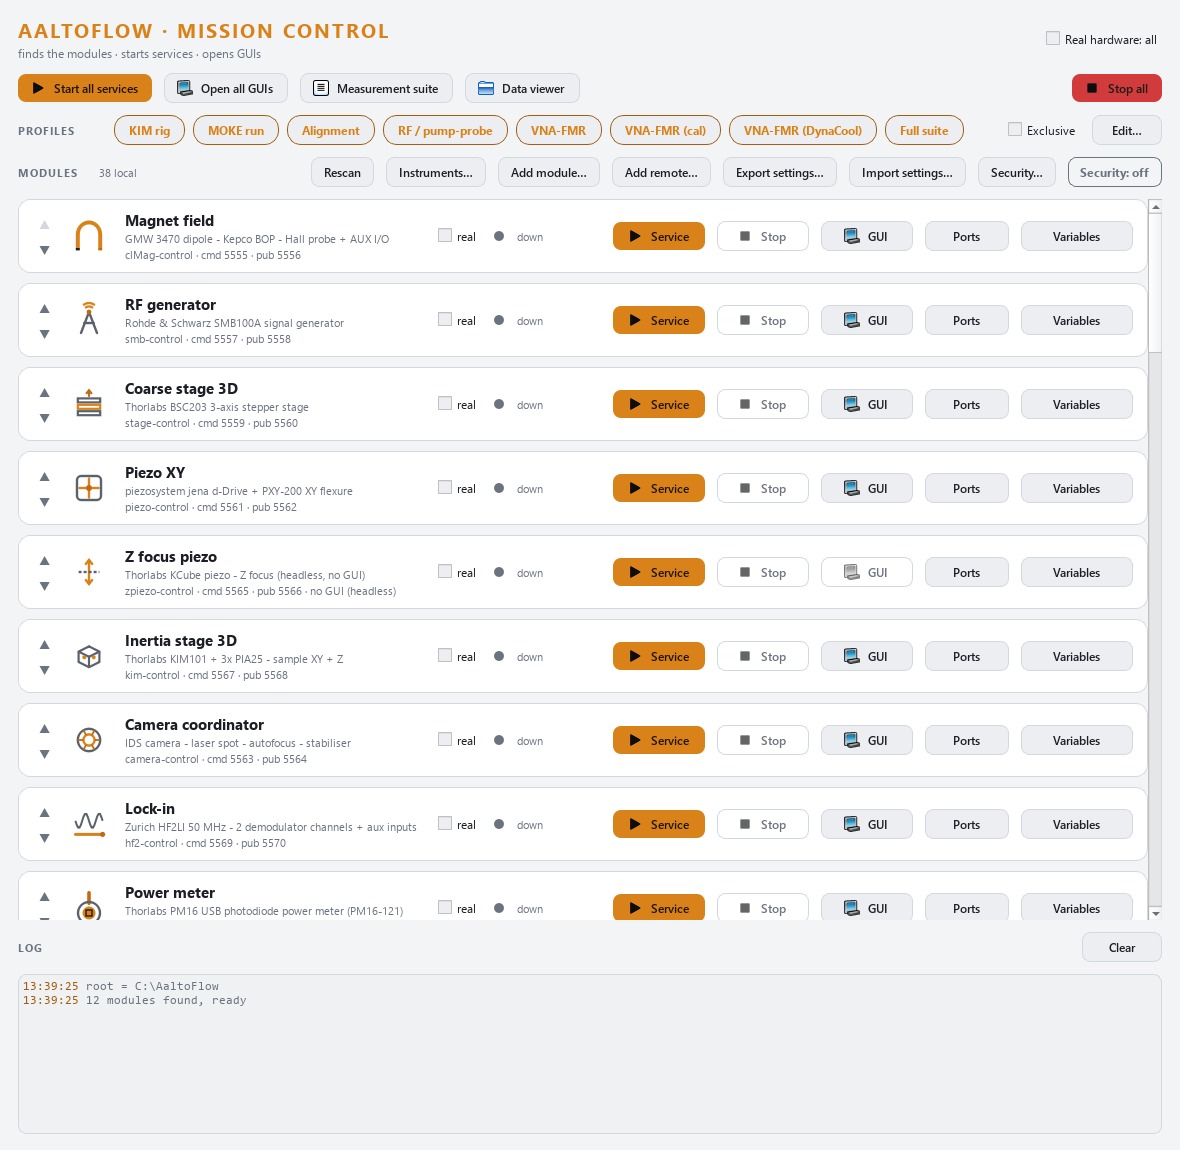
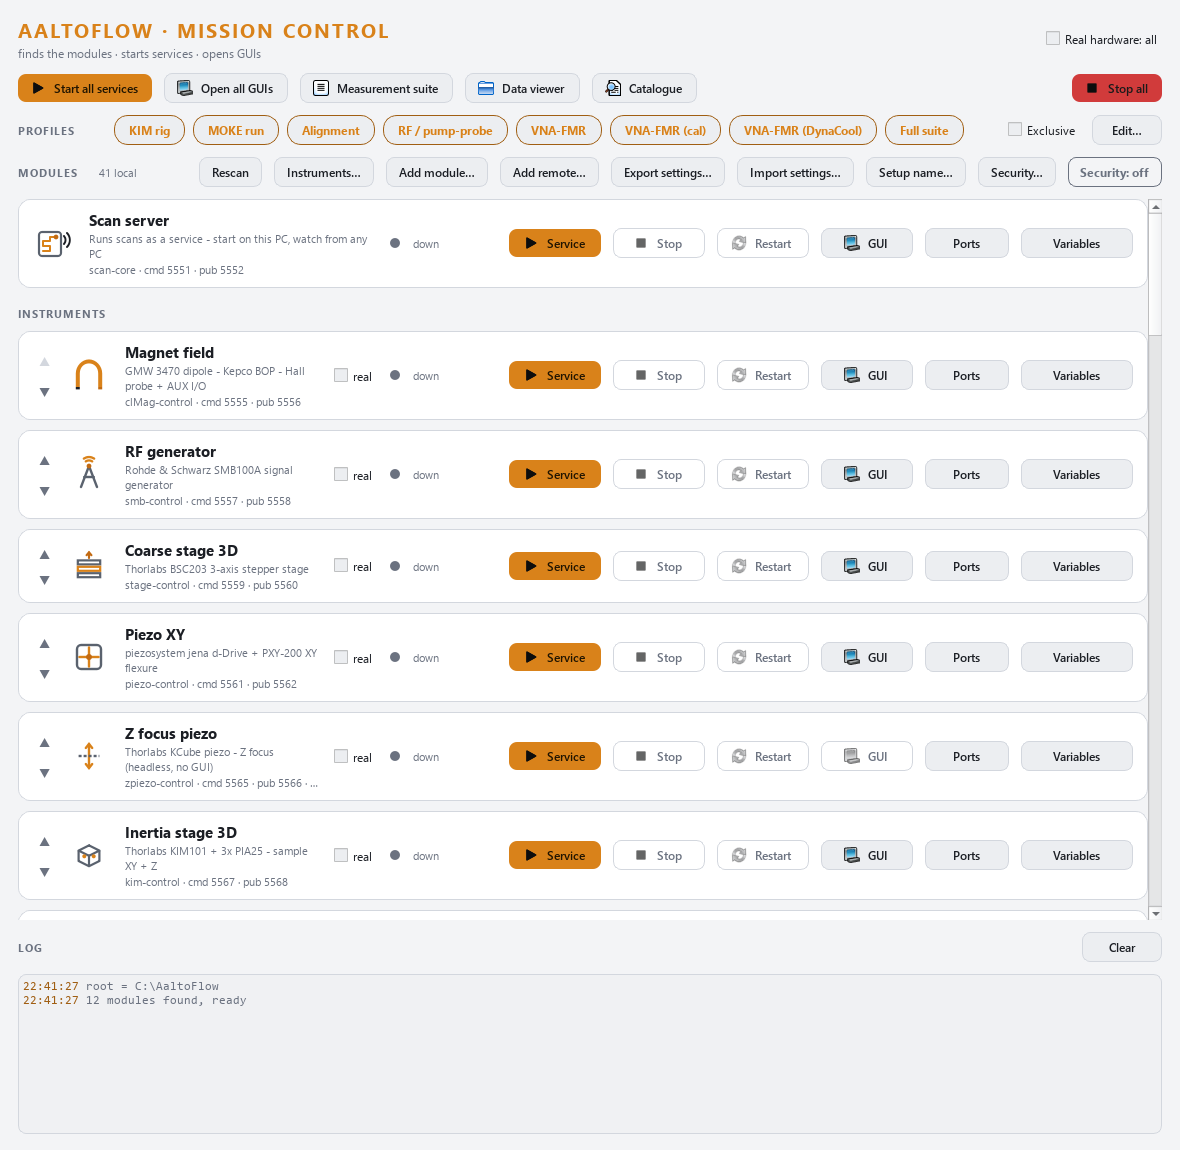
Restart keeps the instrument's state: shutdown{keep_outputs}, Mission Control Restart
Lukas: a service restart for a code update switched off the AFG outputs he
was using; he chose "Restart keeps state". The universal shutdown verb
takes keep_outputs: close cleanly (instrument, hwlock, sockets) but change
nothing the instrument outputs -- the next start adopts it. A plain Stop
still makes sources safe. Every local card in Mission Control has a Restart
button (stop with keep_outputs, then start). Contract written down in the
developer notes and the module guide; the modules follow per category.

Also: the Mission Control render ignores this PC's suite_local.json remotes
and settings (and writes nothing), so a published screenshot can never show
a lab PC's address or name -- it did, via a remote scan server card.

diff --git a/mission-control/mission_control.py b/mission-control/mission_control.py
@@ -341,7 +341,7 @@ def _describe_once(host: str, port: int, timeout_ms: int, module: str) -> dict |
 
 
 def request_shutdown(host: str, port: int, timeout_ms: int = 1000,
-                     module: str = "") -> bool:
+                     module: str = "", keep_outputs: bool = False) -> bool:
     """Ask a service to stop ITSELF; True if it agreed.
 
     Why not just kill it: on Windows QProcess.terminate() cannot reach a console
@@ -351,8 +351,17 @@ def request_shutdown(host: str, port: int, timeout_ms: int = 1000,
     error" until it was unplugged (2026-09-15). A service that knows the
     `shutdown` verb closes its instrument and exits; one that does not answers
     "unknown command" and is killed as before.
+
+    `keep_outputs` (a RESTART, Lukas 2026-10-06): the service closes cleanly
+    but leaves what the instrument outputs as it is -- RF, a field, a
+    waveform -- and the next start ADOPTS it. A plain Stop still makes a
+    source safe. A service from before this option ignores it and switches
+    off as it always did (the safe side).
     """
-    reply = _ask(host, port, timeout_ms, module, {"cmd": "shutdown"})
+    req = {"cmd": "shutdown"}
+    if keep_outputs:
+        req["keep_outputs"] = True
+    reply = _ask(host, port, timeout_ms, module, req)
     return bool(reply and reply.get("ok"))
 
 
@@ -1675,10 +1684,20 @@ class ModuleCard(QtWidgets.QFrame):
         self.btn_stop = QtWidgets.QPushButton("  Stop"); self.btn_stop.setObjectName("danger")
         self.btn_stop.setIcon(st.standardIcon(QtWidgets.QStyle.SP_MediaStop))
         self.btn_stop.clicked.connect(self.stop_service)
+        # RESTART = stop WITHOUT switching the instrument off, then start again:
+        # what a code update needs (Lukas 2026-10-06: an update restart of the
+        # AFG switched off outputs he was using). Stop stays the safe stop.
+        self.btn_restart = QtWidgets.QPushButton("  Restart")
+        self.btn_restart.setIcon(st.standardIcon(QtWidgets.QStyle.SP_BrowserReload))
+        self.btn_restart.setToolTip(
+            "Stop this service and start it again, LEAVING THE INSTRUMENT AS IT IS\n"
+            "(RF, outputs, field stay on); the new service reads its state at start.\n"
+            "For a code update. 'Stop' switches sources off as before.")
+        self.btn_restart.clicked.connect(self.restart_service)
         self.btn_gui = QtWidgets.QPushButton("  GUI")
         self.btn_gui.setIcon(st.standardIcon(QtWidgets.QStyle.SP_ComputerIcon))
         self.btn_gui.clicked.connect(self.open_gui)
-        for b in (self.btn_service, self.btn_stop, self.btn_gui):
+        for b in (self.btn_service, self.btn_stop, self.btn_restart, self.btn_gui):
             b.setFixedWidth(92)
             row.addWidget(b)
 
@@ -1770,7 +1789,7 @@ class ModuleCard(QtWidgets.QFrame):
                     "config") + "  (set it with Instruments…)")
         self.real_check.setToolTip(tip)
         self.real_check.setText(f"real: {spec.address}" if spec.address else "real")
-        for b in (self.btn_service, self.btn_stop, self.btn_ports):
+        for b in (self.btn_service, self.btn_stop, self.btn_restart, self.btn_ports):
             b.setVisible(not spec.remote)
         self.btn_remove.setVisible(spec.remote)
         self.btn_gui.setEnabled(spec.has_gui)
@@ -1880,7 +1899,22 @@ class ModuleCard(QtWidgets.QFrame):
             "far are saved and the after-scan routine runs. Stop it anyway?")
         return ans == QtWidgets.QMessageBox.Yes
 
-    def stop_service(self, graceful_wait_ms: int = 8000):
+    def restart_service(self) -> bool:
+        """Stop (keeping the instrument's outputs) and start again. True when
+        the service was stopped and a new one started."""
+        if not self.owns_service:
+            return False
+        self.win.log(f"[{self.spec.id}] restarting (outputs left as they are)…")
+        if not self.stop_service(keep_outputs=True):
+            self.win.log(f"[{self.spec.id}] restart: the service did not stop by itself; "
+                         f"not started again", "warn")
+            return False
+        self.start_service()
+        return True
+
+    def stop_service(self, graceful_wait_ms: int = 8000, keep_outputs: bool = False) -> bool:
+        """True when the service stopped BY ITSELF (the shutdown verb), False
+        when it had to be killed or nothing ran."""
         proc = self.service_proc
         if proc and proc.state() != QtCore.QProcess.NotRunning:
             if self.spec.key == "scanserver":
@@ -1888,16 +1922,17 @@ class ModuleCard(QtWidgets.QFrame):
                 # saved, the after-scan routine runs) -- ask first, and give it
                 # time to save before a kill (scan_core/scan_server.py)
                 if not self._confirm_stop_scan_server():
-                    return
+                    return False
                 graceful_wait_ms = max(graceful_wait_ms, 30000)
             self._stopping = True
             pid = int(proc.processId() or 0)
             self.win.log(f"[{self.spec.id}] stopping service…")
             # First ask it to stop itself, so it can close its hardware.
-            if request_shutdown(self.spec.host, self.spec.cmd, module=self.spec.id) and \
+            if request_shutdown(self.spec.host, self.spec.cmd, module=self.spec.id,
+                                keep_outputs=keep_outputs) and \
                     proc.waitForFinished(graceful_wait_ms):
                 self.win.prober.probe_now()
-                return
+                return True
             proc.terminate()
             if not proc.waitForFinished(2000):
                 proc.kill()
@@ -1907,9 +1942,11 @@ class ModuleCard(QtWidgets.QFrame):
                                capture_output=True,
                                creationflags=getattr(subprocess, "CREATE_NO_WINDOW", 0))
             self.win.prober.probe_now()
+            return False
         elif not self.spec.remote:
             self.win.log(f"[{self.spec.id}] no launcher-owned service to stop "
                          f"(if it is up, it was started elsewhere -- close it in its own window).", "warn")
+        return False
 
     def open_gui(self):
         if not self.spec.has_gui:
@@ -2044,6 +2081,7 @@ class ModuleCard(QtWidgets.QFrame):
             self.status_dot.setPixmap(dot(C["muted"])); self.status_txt.setText("down")
         self.btn_service.setEnabled(self.spec.can_start and not up and not self.owns_service)
         self.btn_stop.setEnabled(self.owns_service)
+        self.btn_restart.setEnabled(self.owns_service)
         if up and not was:
             # just came up: ask what it can do (a restarted service may have changed)
             self.win.prober.describe(self.spec.id, self.spec.host, self.spec.cmd)

diff --git a/mission-control/tests/test_launcher.py b/mission-control/tests/test_launcher.py
@@ -821,3 +821,54 @@ def test_security_button_and_badge(env, tmp_path, monkeypatch):
     finally:
         dlg.close()
         win._security = None
+
+
+_SHUTDOWN_SERVICE = r"""
+import json, sys, zmq
+port, out = int(sys.argv[1]), sys.argv[2]
+rep = zmq.Context.instance().socket(zmq.REP)
+rep.setsockopt(zmq.LINGER, 1000)
+rep.bind(f"tcp://127.0.0.1:{port}")
+while True:
+    msg = rep.recv_json()
+    if msg.get("cmd") == "shutdown":
+        open(out, "w").write(json.dumps(msg))
+        rep.send_json({"ok": True})
+        break
+    rep.send_json({"ok": False, "error": "unknown"})
+rep.close(linger=1000)
+"""
+
+
+def _shutdown_proc(app, port, out):
+    from PySide6 import QtCore
+    p = QtCore.QProcess()
+    p.start(sys.executable, ["-c", _SHUTDOWN_SERVICE, str(port), str(out)])
+    assert p.waitForStarted(5000)
+    time.sleep(0.8)                              # let it bind
+    return p
+
+
+def test_restart_keeps_the_outputs_and_stop_does_not(env, tmp_path, monkeypatch):
+    """Lukas 2026-10-06: an update restart of the AFG switched off outputs he
+    was using. Restart asks the service to stop WITH keep_outputs, then starts
+    it again; a plain Stop still asks for the safe stop."""
+    mc, win, root, app = env
+    card = win.cards["magnet"]
+    started = []
+    monkeypatch.setattr(card, "start_service", lambda: started.append(1))
+    out = tmp_path / "restart.json"
+    card.service_proc = _shutdown_proc(app, 16100, out)
+    try:
+        assert card.restart_service()
+        assert json.loads(out.read_text())["keep_outputs"] is True
+        assert started == [1]
+        out2 = tmp_path / "stop.json"
+        card.service_proc = _shutdown_proc(app, 16100, out2)
+        assert card.stop_service() is True
+        assert "keep_outputs" not in json.loads(out2.read_text())
+        assert started == [1]                    # Stop does not start again
+    finally:
+        if card.service_proc is not None:
+            card.service_proc.kill(); card.service_proc.waitForFinished(3000)
+        card.service_proc = None

diff --git a/tools/render_panels.py b/tools/render_panels.py
@@ -897,8 +897,22 @@ def _no_security_setup():
     os.environ["AALTOFLOW_SECURITY_DIR"] = tempfile.mkdtemp(prefix="render-nosec-")
 
 
+def _neutral_local_settings():
+    """This PC's suite_local.json holds its REMOTE services (a lab PC's
+    address, its name) and its own setup name: never in a published picture.
+    The render sees the modules of the folder and nothing of this PC's own
+    settings (2026-10-06: a remote scan server card showed a lab IP)."""
+    from suite_common import modules as _m
+    real = _m.load_local
+    _m.load_local = lambda root=None: {**real(root), "remote": [], "settings": {}}
+    # ... and the render WRITES nothing: a setting saved meanwhile would write
+    # the stripped copy back over this PC's real file and lose its remotes
+    _m.save_local = lambda data, root=None: None
+
+
 def _mission_control(theme):
     _no_security_setup()
+    _neutral_local_settings()
     sys.path.insert(0, str(ROOT / "mission-control"))
     import mission_control
 

diff --git a/INSTRUMENT_MODULE_GUIDE.md b/INSTRUMENT_MODULE_GUIDE.md
@@ -188,7 +188,8 @@ Required surface (both families expose this so the net + GUI layers are identica
 
 ```
 start()                      # open backend, push start-up state
-shutdown()                   # safe state (output off), close backend; idempotent
+shutdown(keep_outputs=False) # safe state (output off), close backend; idempotent
+                             # keep_outputs=True: a RESTART -- close, change nothing
 status() -> Status           # snapshot dataclass; must NEVER throw
 get_config() -> Config
 apply_config()               # re-clamp/re-tune after cfg edited in place
@@ -234,6 +235,14 @@ console program any other way than a hard kill -- and a killed service never
 closes its instrument (a USB power meter was left answering "I/O error" until it
 was unplugged). Close the REP socket with `linger` (not `close(0)`), or the reply
 can be dropped. `tools/check_modules.py --live` checks the service really exits.
+
+`shutdown{keep_outputs: true}` (since 2026-10-06) is a RESTART for a code update:
+close the instrument, the hwlock claim and the sockets exactly as usual, but skip
+every step that changes what the instrument outputs (RF off, output off, ramp to
+zero, emission off, a park position). The next start adopts the state. Stopping a
+running MOVE is not an output change: do it anyway. Parse the flag tolerantly
+(`"false"` is False, gotcha #3) and reply `kept_outputs` so a caller can tell an
+old service (which ignores it and switches off) from a new one.
 
 `protocol.py` holds the port constants, topic bytes, and the
 `status_to_dict` / `config_to_dict` / `apply_config_dict` helpers — one file so

diff --git a/docs/DEVELOPER_NOTES.md b/docs/DEVELOPER_NOTES.md
@@ -144,7 +144,14 @@ still assumes piezo/zpiezo.
   (5–10 Hz) and `b"event"` (`{"level", "msg"}`).
 - **Universal verbs** that every module has: `status`, `info`, `get_config`,
   `set_config`, **`describe`**, **`shutdown`** (2026-09-15: stop cleanly and exit,
-  see gotcha #25), plus one verb per setter.
+  see gotcha #25), plus one verb per setter. `shutdown{keep_outputs: true}`
+  (2026-10-06, Lukas) is a RESTART: close cleanly but leave what the instrument
+  outputs as it is (RF, field, waveform, laser emission, a park) -- the next start
+  ADOPTS it. A plain shutdown still makes sources safe. A motion module still
+  STOPS a running move (an unsupervised move must not outlive its service), but
+  moves nothing back. Reply `kept_outputs: true|false`. Mission Control's card
+  button **Restart** sends it; a service that predates it ignores the argument
+  and switches off (the safe side).
 - **`describe` (added 2026-09-10) is how a client builds a UI for a module it has
   never heard of.** It returns a manifest of controls / indicators / actions with
   LIVE limits, units, types, the verb that sets each one, the status path that
